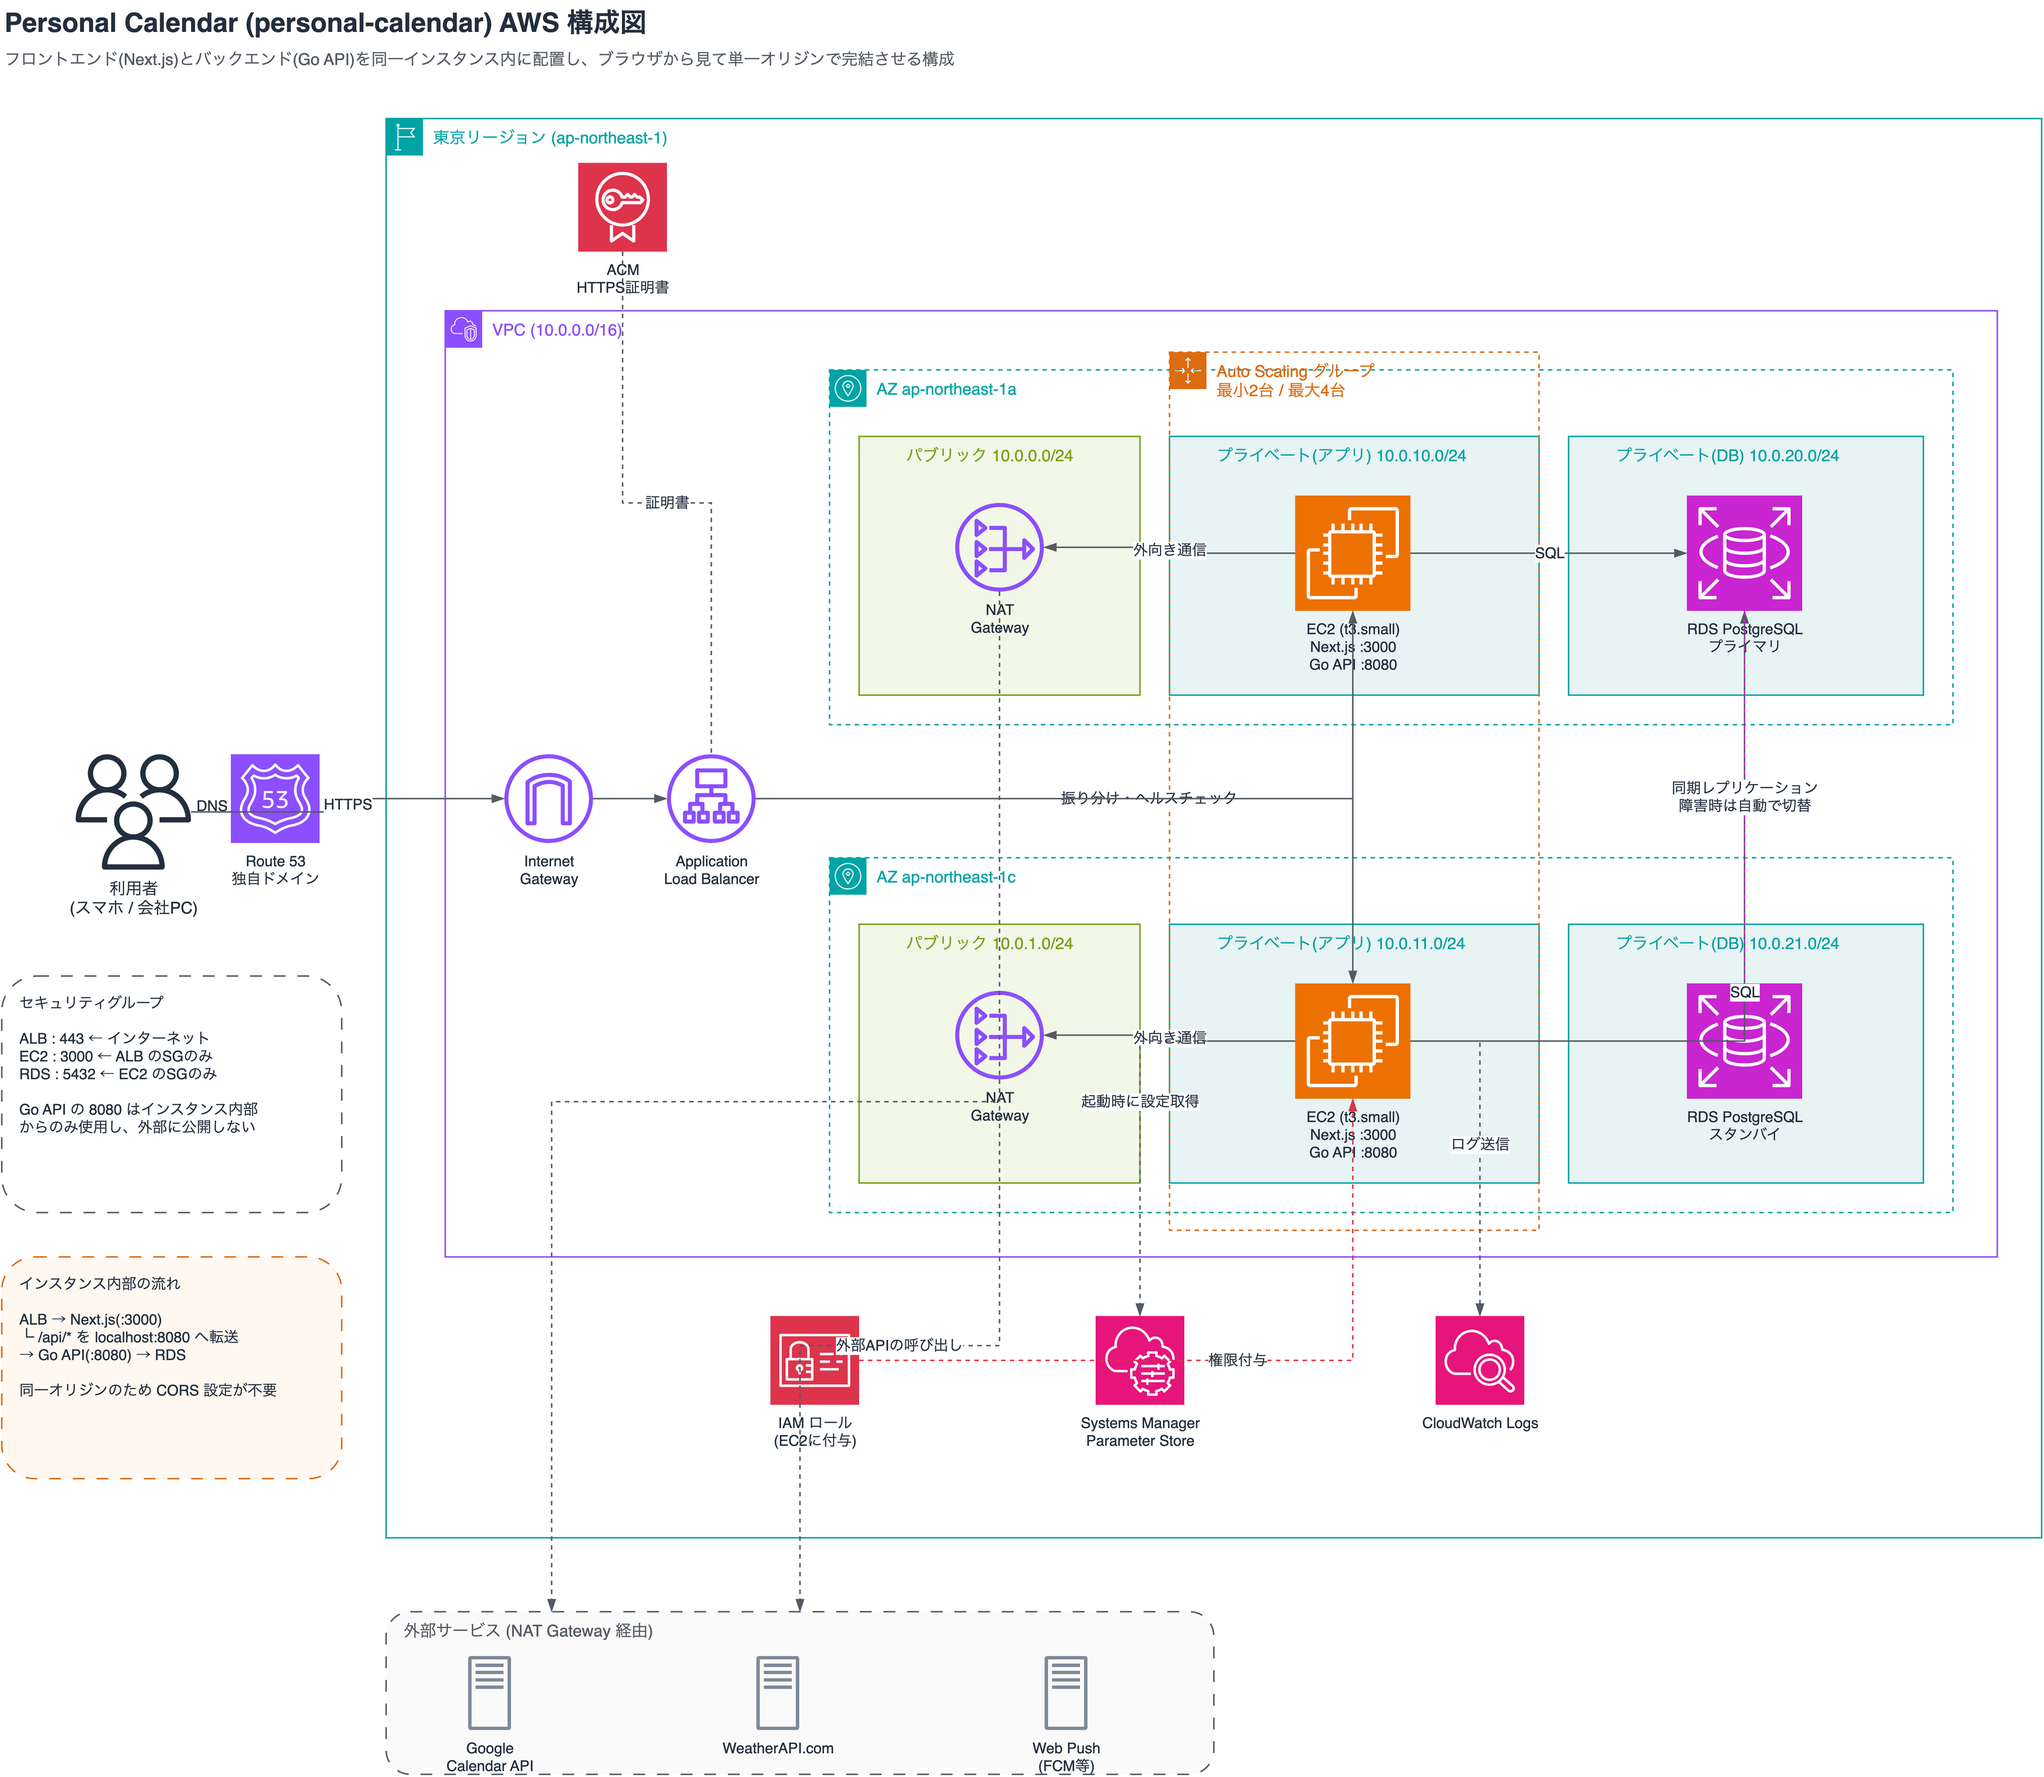
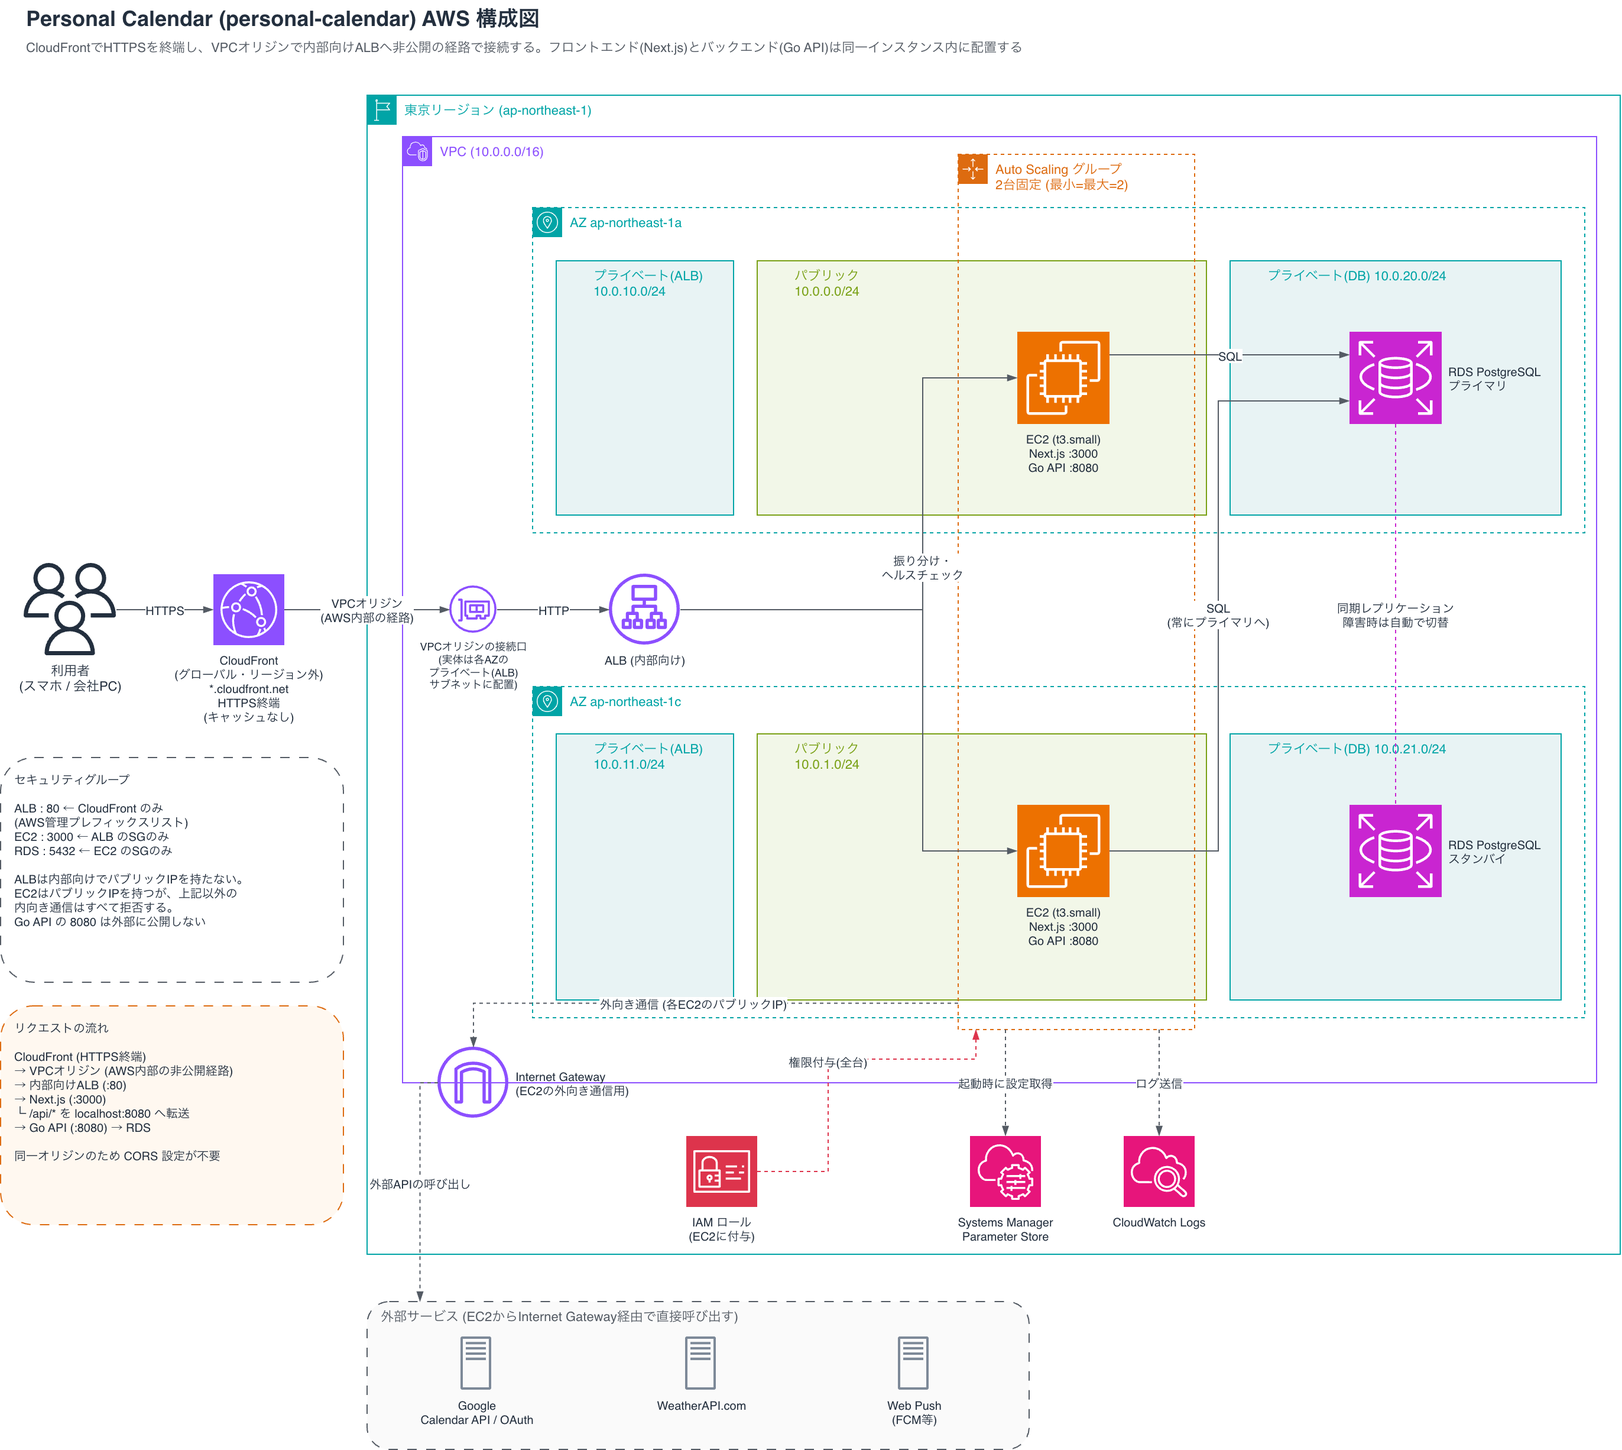
Add the Step 8 construction report and screenshots
docs/infra-construction.md is the Step 8 submission: overview and the
changes from Step 7, the final diagram, the curl and browser checks, and
console screenshots showing the built stack matches the design.

The diagram PNG is re-exported from the drawio file. The old export
still showed the NAT Gateway and Route 53 removed on Oct 29. The drawio
now draws the VPC origin's network interface between CloudFront and the
ALB.

Google Calendar integration was dropped for security reasons, so the
deploy guide checks the app with the weather strip and a ToDo instead.
It also notes that GOOGLE_OAUTH_CREDENTIALS_JSON must still be set,
because the Go server will not start without it.

diff --git a/docs/infra-construction.md b/docs/infra-construction.md
@@ -1,0 +1,186 @@
+# インフラ構築レポート(Personal Calendar)
+
+## 概要
+
+### 構成の特徴
+
+Step 7で設計した構成を、AWSの東京リージョンに構築した。
+
+```
+ブラウザ → CloudFront ──→ 内部向けALB → EC2 ×2 ─┬─ Next.js (:3000)
+ (HTTPS)     (VPCオリジン:                (AZごとに └─ Go API (:8080)
+              AWS内部の非公開経路)          1台)           ↓
+                                                   RDS for PostgreSQL
+                                                       (マルチAZ)
+```
+
+- **1台のEC2の中で、フロントエンド(Next.js)とバックエンド(Go)を並べて動かす**。ブラウザは同じドメインの`/api/*`を呼び、Next.jsがインスタンス内のGoへ転送する。ローカルで動かしている構成を変えずにクラウドへ載せられる
+- **ALBとAuto Scalingで、2つのAZに1台ずつ配置する**。台数は2台で固定し、Auto Scalingは故障したインスタンスの自動入れ替えに使う
+- **HTTPSはCloudFrontで終端する**。独自ドメインを持たないため、`*.cloudfront.net`の証明書を使う。CloudFrontからALBへはVPCオリジンを使い、ALBをインターネットに公開しない
+- **構築はCloudFormationのテンプレート1つで行った**([`infra/personal-calendar.yaml`](../infra/personal-calendar.yaml))。EC2は起動時にGitHubからコードを取得してビルドし、パスワードやAPIキーはParameter Storeから読み込む
+
+### 採用したサービス
+
+| 層 | サービス | 用途 |
+|---|---|---|
+| 配信 | CloudFront(VPCオリジン) | HTTPS終端と、ALBへの非公開の接続 |
+| 負荷分散 | ALB(内部向け) | 2台への振り分けとヘルスチェック |
+| アプリ | EC2(t3.small)+ Auto Scaling | Next.jsとGoの実行、故障したインスタンスの自動入れ替え |
+| データ | RDS for PostgreSQL(db.t4g.micro・マルチAZ) | 永続化 |
+| ネットワーク | VPC / サブネット / Internet Gateway | 通信経路の制御 |
+| 権限 | IAM(インスタンスロール) | EC2からParameter Store・CloudWatch Logsへのアクセスと、Session Managerでの接続(SSHは開けない) |
+| 設定 | Systems Manager パラメータストア | パスワードやAPIキーの保管(SecureString) |
+| 監視 | CloudWatch Logs | 起動時のビルドとアプリのログの集約 |
+| 構築 | CloudFormation | 上記すべてをテンプレート1つで作成・削除 |
+
+### Step 7からの調整
+
+| 調整 | 内容 | 理由 |
+|---|---|---|
+| ALBが受け付ける送信元 | CloudFrontが自動で作るセキュリティグループから、AWS管理のプレフィックスリスト(`com.amazonaws.global.cloudfront.origin-facing`)に変えた | 自動で作られるセキュリティグループは、VPCオリジンを作った後にしかIDが決まらず、CloudFormationのテンプレートから参照できない。ALBは内部向けでインターネットからの経路を持たないため、プレフィックスリストにしても、実際に届くのはこのアカウントのVPCオリジンからの通信だけである |
+| ヘルスチェック用のエンドポイント | `GET /api/health`を追加し、ALBのヘルスチェックに使った | Step 7で代用を考えていた`/login`はNext.jsだけで応答できるため、Goが止まっていてもヘルスチェックが通ってしまう。`/api/health`はNext.jsを経由してGoまで届くので、両方が動いているときだけ成功する |
+| リマインダーの送信 | 「送信済みの記録に成功した1台だけが通知を送る」順序に変えた | Step 7で見つけた、2台で動かすと同じ予定の通知が2回届く問題への対応 |
+
+### 今回の範囲から外したもの
+
+会社のGoogleカレンダーと連携する機能は、社内のセキュリティ上の判断により使わないことにした。そのため今回の構築ではGoogle連携を行わず、それ以外の機能(合言葉ログイン・ToDo・天気・プッシュ通知)で動作を確認する。
+
+## インフラ構成図
+
+![AWS構成図](./images/infra-architecture.png)
+
+編集用の元データは[`infra-architecture.drawio`](./infra-architecture.drawio)(draw.io / app.diagrams.net で開く)。
+
+## 動作確認
+
+### curlでの疎通確認
+
+```
+curl -i https://dni7puxfgc6ua.cloudfront.net/api/health
+```
+
+![curlの実行結果](./images/step8_01_curl.png)
+
+`HTTP/2 200`と`{"status":"ok"}`が返った。`via: ... (CloudFront)`と`x-amz-cf-pop: NRT20-P6`(成田のエッジ)から、CloudFrontを経由して届いていることがわかる。
+
+`/api/health`はALBのヘルスチェックにも使っているパスで、ブラウザと同じくNext.jsを経由してGoまで届く。200が返ることは、CloudFront → VPCオリジン → ALB → EC2のNext.js → Goの全区間が通っていることを示す。
+
+### ブラウザでの操作
+
+**1. ログイン画面**
+
+`https://dni7puxfgc6ua.cloudfront.net`を開くと、未ログインのため`/login`へ転送された。
+
+![ログイン画面](./images/step8_02_login.png)
+
+**2. ダッシュボード**
+
+合言葉でログインすると、ダッシュボードが表示された。「今日の天気」は、EC2からInternet Gateway経由で外部のWeatherAPI.comを呼び出した結果である。
+
+![ダッシュボード](./images/step8_03_dashboard.png)
+
+**3. ToDoの追加**
+
+ToDoを1件追加し、ページを再読み込みしても消えずに残ることを確認した。ToDoはGoがRDSに保存しているため、EC2からRDSまでの区間も動いていることがわかる。
+
+![ToDoを追加した状態](./images/step8_04_todo.png)
+
+## 机上確認
+
+Step 7で設計した内容が、実際の環境に反映されていることを確認した。
+
+### CloudFormationのスタック
+
+テンプレート1つから、すべてのリソースが作成された(`CREATE_COMPLETE`)。
+
+![CloudFormationのスタック](./images/step8_10_stack.png)
+
+### CloudFront(VPCオリジン)
+
+VPCオリジンが内部向けALBを指しており(プロトコルは`http-only`、ポート80)、ステータスは`Deployed`。関連付けられたディストリビューションのドメイン`dni7puxfgc6ua.cloudfront.net`は、動作確認で使ったURLと一致する。
+
+![VPCオリジン](./images/step8_11_cloudfront.png)
+
+### ALB(内部向け)
+
+スキームが`Internal`で、インターネットから直接到達できない。ALBは`ap-northeast-1a`と`ap-northeast-1c`の2つのAZに置いた。
+
+![ALB](./images/step8_12_alb.png)
+
+### ターゲットグループとヘルスチェック
+
+EC2が2台とも`Healthy`で、`ap-northeast-1a (apne1-az4)`と`ap-northeast-1c (apne1-az1)`に1台ずつ配置されている。VPCオリジンが使えない`apne1-az3`は避けている。
+
+![ターゲット](./images/step8_13_targets.png)
+
+ヘルスチェックのパスは`/api/health`。間隔30秒・2回連続の失敗で異常と判定する標準的な設定は、設計どおりである。
+
+![ヘルスチェックの設定](./images/step8_14_healthcheck.png)
+
+### Auto Scaling
+
+希望するキャパシティが2、スケーリング制限が2〜2で、台数は2台に固定されている。インスタンスタイプは`t3.small`。
+
+![Auto Scalingグループ](./images/step8_15_asg.png)
+
+### セキュリティグループ
+
+各層は、直前の層からの通信だけを受け付ける。送信元のIDをたどると、通信が一本の鎖でつながっていることがわかる。
+
+| 対象 | ポート | 送信元 |
+|---|---|---|
+| ALB(`sg-0b419cfee4d789350`) | 80 | `pl-58a04531`(CloudFrontのプレフィックスリスト) |
+| EC2(`sg-0c58ef6725cd05c71`) | 3000 | `sg-0b419cfee4d789350`(ALBのセキュリティグループ) |
+| RDS(`sg-07baa3425e03381d2`) | 5432 | `sg-0c58ef6725cd05c71`(EC2のセキュリティグループ) |
+
+![ALBのセキュリティグループ](./images/step8_16_sg_alb.png)
+
+![EC2のセキュリティグループ](./images/step8_16_sg_ec2.png)
+
+![RDSのセキュリティグループ](./images/step8_16_sg_rds.png)
+
+### ルートテーブル
+
+パブリックサブネット(EC2)は`0.0.0.0/0`をInternet Gatewayへ向けている。プライベートサブネット(ALB・RDS)は`10.0.0.0/16 → local`の1行だけで、VPCの外への経路を持たない。NAT Gatewayは置いていない。
+
+![パブリックのルートテーブル](./images/step8_17_route_public.png)
+
+![プライベートのルートテーブル](./images/step8_17_route_private.png)
+
+### RDS
+
+マルチAZが有効で、プライマリが`ap-northeast-1c`、スタンバイ(セカンダリ)が`ap-northeast-1a`にある。
+
+![RDSの設定](./images/step8_18_rds_multiaz.png)
+
+受け付ける通信は、EC2のセキュリティグループからのインバウンド1件だけである。プライベートサブネットに外への経路がないことと合わせ、RDSにはインターネットから到達できない。
+
+![RDSのセキュリティグループのルール](./images/step8_18_rds_network.png)
+
+### Parameter Store
+
+アプリの設定値を`/personal-calendar/`の下に置いた。パスワードやAPIキーは`SecureString`(暗号化)で保管し、EC2は起動時にインスタンスロールの権限で読み込む。`GOOGLE_OAUTH_CREDENTIALS_JSON`はGoの起動時に必須のため登録しているが、Google連携は行わないため実際には使っていない。この1件だけ種類が`String`になっているのは登録時の設定漏れで、本来は他と同じく`SecureString`にすべきだった。
+
+![Parameter Store](./images/step8_19_ssm.png)
+
+### CloudWatch Logs
+
+ロググループ`/personal-calendar/app`に、インスタンスごとの`user-data`(起動時のビルド)・`backend`(Go)・`frontend`(Next.js)の3つのストリームが届いている。
+
+![CloudWatch Logs](./images/step8_20_logs.png)
+
+## まとめ
+
+### 工夫したこと
+
+- **テンプレート1つで作成から削除までできるようにした**。手作業で作ると、削除のときに消し忘れが出たり、作り直したときに設定が変わったりする。CloudFormationにまとめたことで、同じ構成をいつでも作り直せ、課金を止めたいときはスタックの削除だけで済む
+- **秘密情報をテンプレートにもディスクにも書かない**。DBのパスワードはテンプレートの中でParameter Storeを参照し、アプリの設定値はGoの起動のたびにParameter Storeから読み込む。インスタンスのディスクやAMIに値が残らない
+- **ヘルスチェックでDBを確認しない**。`/api/health`はNext.jsとGoが動いていることだけを確認する。DBまで確認すると、RDSのフェイルオーバー中に2台とも異常と判定され、正常なインスタンスまでAuto Scalingに入れ替えられてしまうため
+- **起動時のビルドのログを、最初にCloudWatchへ送る設定にした**。EC2は起動時にGitHubからコードを取得してビルドするため、ビルドが失敗するとアプリが起動しない。ログの送信を最初に設定しておくことで、インスタンスに入らなくても失敗の原因を追える
+- **インスタンスへの接続はSession Managerに限った**。SSHの22番を開けず、鍵の管理も不要にした
+
+### 学んだこと
+
+- **AZの名前はアカウントごとに指す場所が違う**。`ap-northeast-1a`のようなAZ名と、物理的な場所を表すAZ ID(`apne1-az4`など)の対応はアカウントごとに異なる。VPCオリジンのように「特定のAZ IDでは使えない」機能を使うときは、名前ではなくIDで確認する必要がある
+- **設計どおりに作れるかは、構築の手段まで考えて初めてわかる**。VPCオリジン用のセキュリティグループは、AWSが後から自動で作るため、CloudFormationのテンプレートからは参照できなかった。設計の段階で「どう作るか」まで確認しておくと、構築時の変更を減らせる
+- **複数台にすると、1台では起きない不具合が出る**。リマインダーの二重送信は、1台で動かしている限り起きない。台数を増やすときは、各台が同じ処理を同時に行っても問題ないかを確認する必要がある
